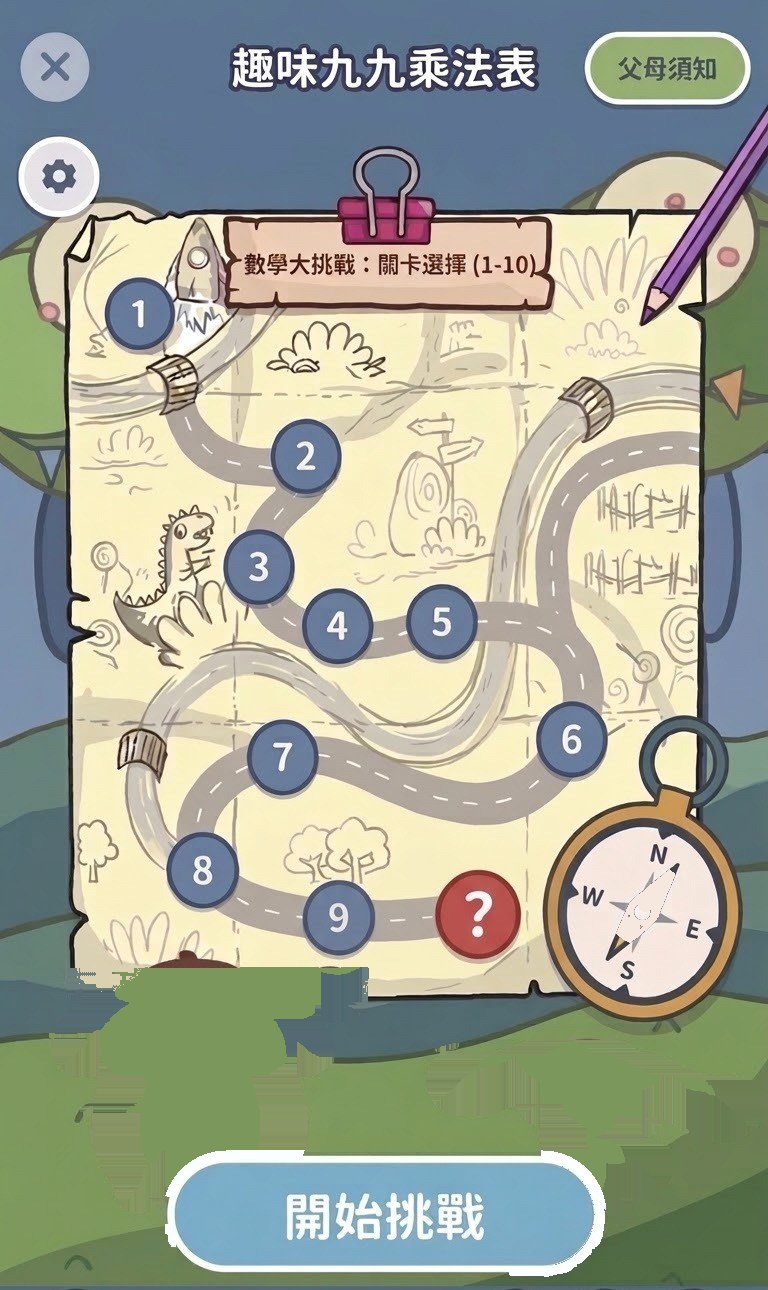
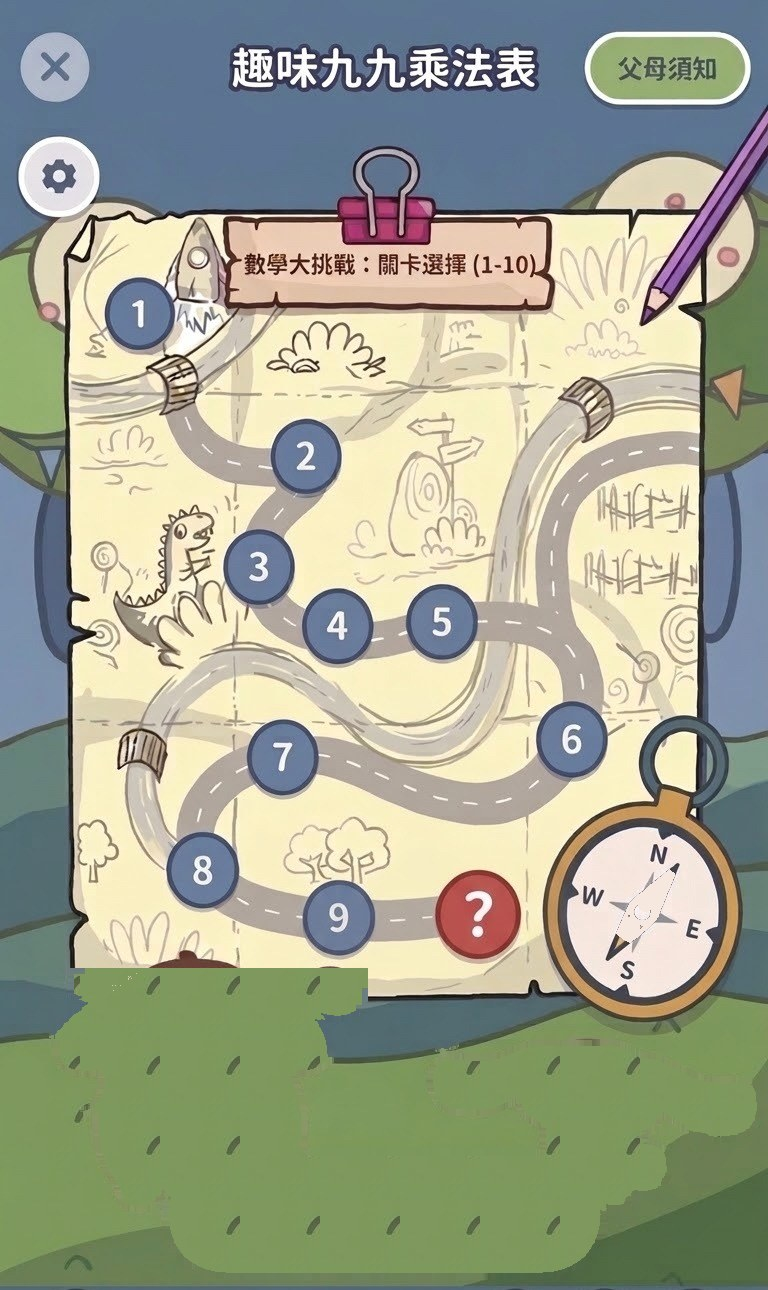
fix: 選關改成底圖、狗、開始挑戰三層
底圖沒有狗。開始挑戰蓋在狗上面，浮動時不會壓到按鈕。

diff --git a/index.html b/index.html
@@ -34,7 +34,7 @@
   <link rel="preload" as="image" href="assets/review-yellow.png">
   <link rel="preload" as="image" href="assets/review-white.png">
   <link rel="stylesheet" href="styles.css?v=4">
-  <link rel="stylesheet" href="game.css?v=12">
+  <link rel="stylesheet" href="game.css?v=13">
 </head>
 <body>
   <audio id="bgm" src="assets/bgm.mp3?v=3" loop preload="auto" autoplay playsinline></audio>
@@ -66,10 +66,11 @@
 
   <main class="stage select-page" id="view-select" hidden>
     <div class="shot">
-      <img class="shot-plate" src="assets/select-plate.jpg?v=2" alt="趣味九九乘法表關卡選擇">
-      <img class="map-float map-float-a" src="assets/select-float-a.png?v=2" alt="" aria-hidden="true">
-      <img class="map-float map-float-b" src="assets/select-float-b.png?v=2" alt="" aria-hidden="true">
+      <img class="shot-plate" src="assets/select-plate.jpg?v=3" alt="趣味九九乘法表關卡選擇">
+      <img class="map-float map-float-a" src="assets/select-float-a.png?v=3" alt="" aria-hidden="true">
+      <img class="map-float map-float-b" src="assets/select-float-b.png?v=3" alt="" aria-hidden="true">
       <img class="map-needle" src="assets/select-needle.png?v=1" alt="" aria-hidden="true">
+      <img class="map-go" src="assets/select-go.png?v=1" alt="" aria-hidden="true">
 
       <button class="hit hit-x" id="map-back" type="button" aria-label="回主畫面"></button>
       <button class="hit hit-gear" id="map-settings" type="button" aria-label="設定"></button>

diff --git a/game.css b/game.css
@@ -53,6 +53,18 @@
   animation: map-needle 3.4s ease-in-out infinite;
 }
 
+.map-go {
+  position: absolute;
+  z-index: 10;
+  left: 20.05%;
+  top: 88.53%;
+  width: 60.03%;
+  height: auto;
+  pointer-events: none;
+  user-select: none;
+  -webkit-user-drag: none;
+}
+
 @keyframes map-float-a {
   0%, 100% { transform: translateY(0); }
   50% { transform: translateY(-11px); }

diff --git a/HANDOFF.md b/HANDOFF.md
@@ -36,7 +36,7 @@
 - 切主頁／選關／測驗時同一個元素繼續播，`currentTime` 不歸零。
 - 設定「音效」關掉就停，再開從原秒數接。
 - iPhone 第一次若被擋，點一下畫面會接上；接上之後換畫面不會再斷。
-- 快取：`styles.css?v=4`、`game.css?v=12`、`shell.js?v=3`、`app.js?v=4`、`select.js?v=3`、`play.js?v=13`、`table.js?v=2`。改檔要再加版本。
+- 快取：`styles.css?v=4`、`game.css?v=13`、`shell.js?v=3`、`app.js?v=4`、`select.js?v=3`、`play.js?v=13`、`table.js?v=2`。改檔要再加版本。
 
 ## 選關
 
@@ -44,7 +44,7 @@
 - 問號關 `data-n="mix"`：未選是圖上的紅球問號；選中變成粉紫金色特殊問號球，不是黃燈。
 - 熱區大約（相對 `.shot`）：9 在 44.2% / 70.8%，問號在 62.2% / 70.9%。
 - 高一點的手機底下多一截草地是原圖比例，不要再畫一層。
-- 兩隻狗浮動、指南針指針擺動：原圖拆成 `select-plate.jpg` 加 `select-float-a.png` / `select-float-b.png` / `select-needle.png`。不要重畫地圖。狗 `pointer-events: none`，不能擋「開始挑戰」。指針只轉針，字母和刻度留在底圖。`prefers-reduced-motion` 要停。
+- 兩隻狗浮動、指南針指針擺動。底圖 `select-plate.jpg` 不能留狗。狗在中層。`select-go.png` 是「開始挑戰」，疊在狗上面，狗浮動時不准壓到按鈕。熱區仍是 `#go-btn`。
 
 ## 測驗（play.html / play.js）
 
